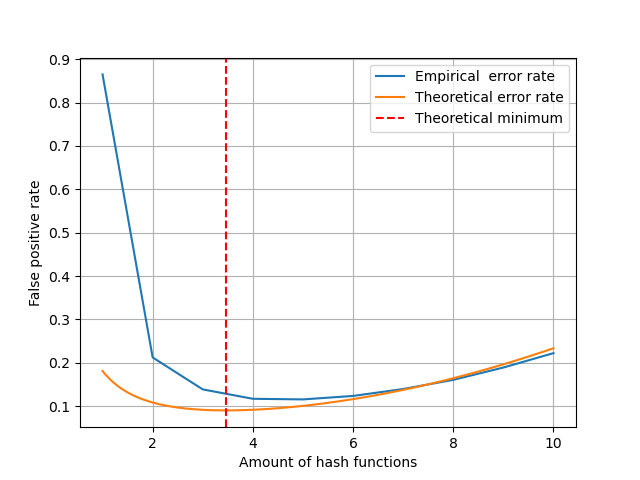
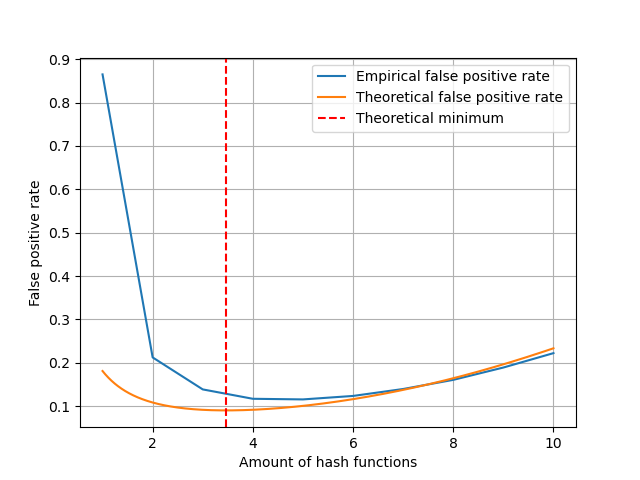
Change: mentions of 'error rate' to 'false positive rate'

Changed region(s): [[0.5, 0.125, 0.875, 0.2812]]

diff --git a/examples/OptimalAmountHashFunctions.py b/examples/OptimalAmountHashFunctions.py
@@ -8,8 +8,8 @@ import matplotlib.pyplot as plt
 import os
 
 
-def error_against_amount_hash(dataset, n, m, max_k, h1=sdbm, h2=MurmurHash3, seed=0):
-    """Returns a plot showing how the error rate changes as the amount of hash functions increase.
+def false_positive_against_amount_hash(dataset, n, m, max_k, h1=sdbm, h2=MurmurHash3, seed=0):
+    """Returns a plot showing how the false positive rate changes as the amount of hash functions increase.
     'dataset' denotes which bloom filter of size m we create and for which n random strings of the dataset are inserted.
     The extra hash functions are generated using the Kirsch-Mitzenmatcher optimization for two given hash functions."""
 
@@ -26,20 +26,20 @@ def error_against_amount_hash(dataset, n, m, max_k, h1=sdbm, h2=MurmurHash3, see
     randomized_data = data_list.copy()
     random.shuffle(randomized_data)
     subset_data = randomized_data[:n]
-    empirical_error_rate = max_k * [0]
+    empirical_false_positive_rate = max_k * [0]
 
-    # Constructing theoretical error rate
+    # Calculating theoretical false positive rates
     x = np.linspace(1, max_k, 1000)
-    theoretical_error_rate = (1 - np.exp(-x * n / m)) ** x
+    theoretical_false_positive_rate = (1 - np.exp(-x * n / m)) ** x
 
-    # Constructing empirical error rates for each k-value
+    # Calculating empirical false positive rates for each k-value
     for k in range(1, max_k + 1):
-        empirical_error_rate[k-1] = false_positive_rate(KMBloomFilter(m, h1, h2, k), data_list, subset_data)
+        empirical_false_positive_rate[k-1] = false_positive_rate(KMBloomFilter(m, h1, h2, k), data_list, subset_data)
     optimal_k = m / n * math.log(2)
 
     # Plotting and saving the graph
-    plt.plot(list(range(1, max_k + 1)), empirical_error_rate, label="Empirical  error rate")
-    plt.plot(x, theoretical_error_rate, label="Theoretical error rate")
+    plt.plot(list(range(1, max_k + 1)), empirical_false_positive_rate, label="Empirical false positive rate")
+    plt.plot(x, theoretical_false_positive_rate, label="Theoretical false positive rate")
     plt.xlabel("Amount of hash functions")
     plt.ylabel("False positive rate")
     plt.axvline(x=optimal_k, color="r", label="Theoretical minimum", linestyle="dashed")
@@ -51,5 +51,5 @@ def error_against_amount_hash(dataset, n, m, max_k, h1=sdbm, h2=MurmurHash3, see
     plt.clf()
 
 
-error_against_amount_hash("words.txt", 30000, 300000, 20)
-error_against_amount_hash("DNA.txt", 200000, 1000000, 10)
+false_positive_against_amount_hash("words.txt", 30000, 300000, 20)
+false_positive_against_amount_hash("DNA.txt", 200000, 1000000, 10)
